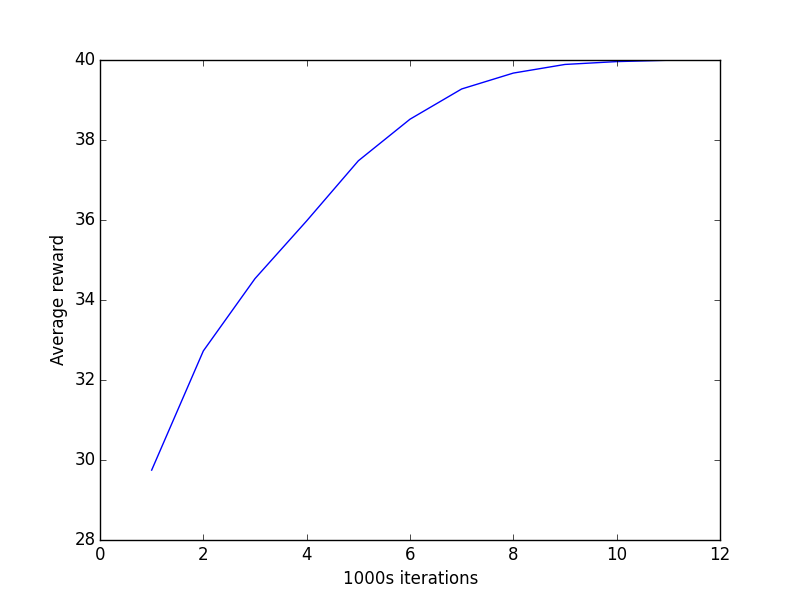
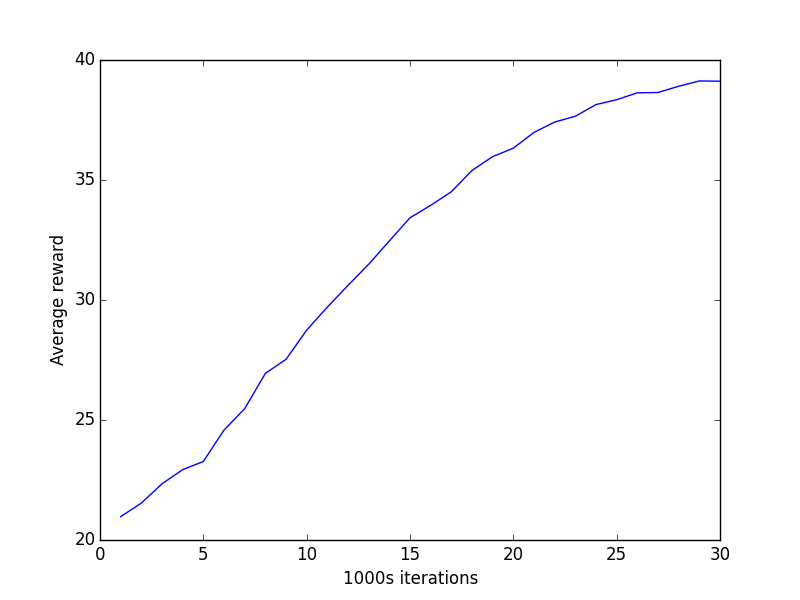
Correct mdp

diff --git a/sim.py b/sim.py
@@ -1,19 +1,19 @@
 from __future__ import division
 import numpy as np
 from matplotlib import pylab as plt
-from tqdm import tqdm
+from tqdm import tqdm, trange
 from tools import *
 
 # Paramters
 n_hidden = 13
 dim_state = 12
 dim_action = 40
-scale = 0.2
+scale = 0.7
 n_key_states = 13
-n_train = 12000
+n_train = 30000
 n_sample = 100
 start_learning_rate = 0.01
-last_learning_rate = 0.001
+last_learning_rate = 0.01
 learning_rate = start_learning_rate
 start_beta = 1
 last_beta = 10
@@ -28,7 +28,8 @@ rbm = RBM(n_hidden, dim_state, dim_action, scale)
 rewards = []
 mean_rewards = []
 print( "Training start" )
-for i in tqdm( range(1, n_train+1), leave=False):
+t = trange(1, n_train + 1)
+for i in t:
     # Learning rate adaptation
     learning_rate = start_learning_rate * ( last_learning_rate / start_learning_rate ) ** ( i / n_train )
     beta = start_beta * ( last_beta / start_beta ) ** ( i / n_train )
@@ -38,12 +39,13 @@ for i in tqdm( range(1, n_train+1), leave=False):
     reward = mdp.reward(action)
     rbm.qlearn(state, action, reward, learning_rate)
     # Save reward
+    t.set_description("Reward %d"%reward)
     rewards.append(reward)
     if i % ave_per == 0 and i > 0:
         mean_rewards.append( np.mean(rewards[i-ave_per:i]) )
 
 # Plotting
-plt.plot(np.arange(1, 13), mean_rewards)
+plt.plot(np.arange(1, 31), mean_rewards)
 plt.xlabel("1000s iterations")
 plt.ylabel("Average reward")
 plt.savefig("result.png")

diff --git a/tools.py b/tools.py
@@ -63,7 +63,8 @@ class LargeActionTask:
     
     def next_key_state(self):
         ind = np.random.randint(0, self.n_key_states)
-        return self.key_states[ind, :]
+        self.current_state = self.key_states[ind, :]
+        return self.current_state
     
     def reward(self, action):
         ind = np.argmax(similarity(self.key_states, self.current_state))
@@ -102,7 +103,7 @@ class RBM:
         for i in range(n_sample):
             h = samp_vec(sig_vec(beta * self.tau(s, a)))
             a = samp_vec(sig_vec(beta * np.dot(self.u.T, h)))
-
+        
         return a
     
     def qlearn(self, s, a, r, lr):
